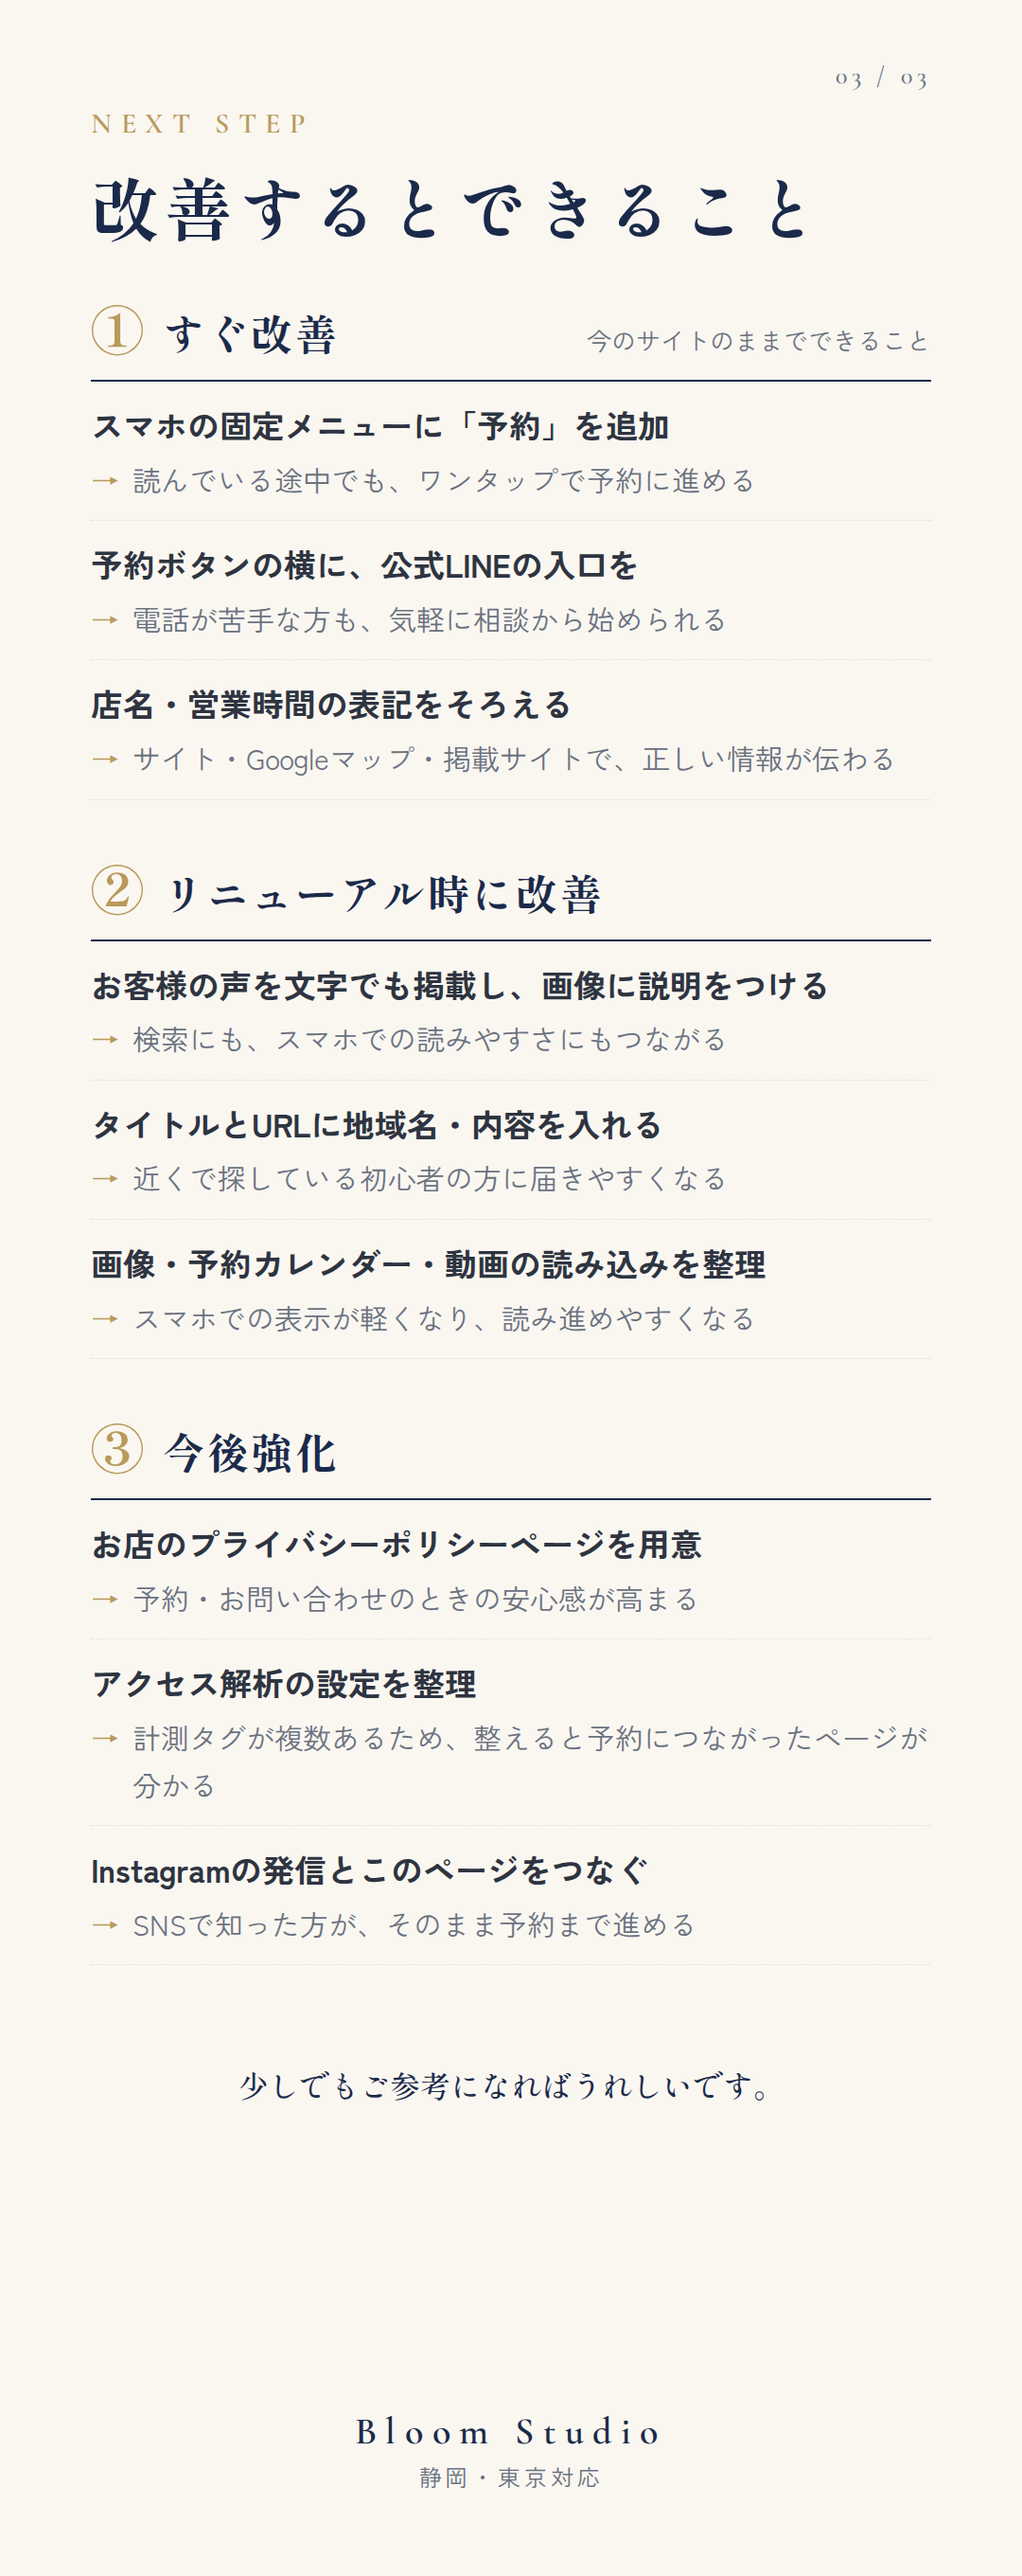
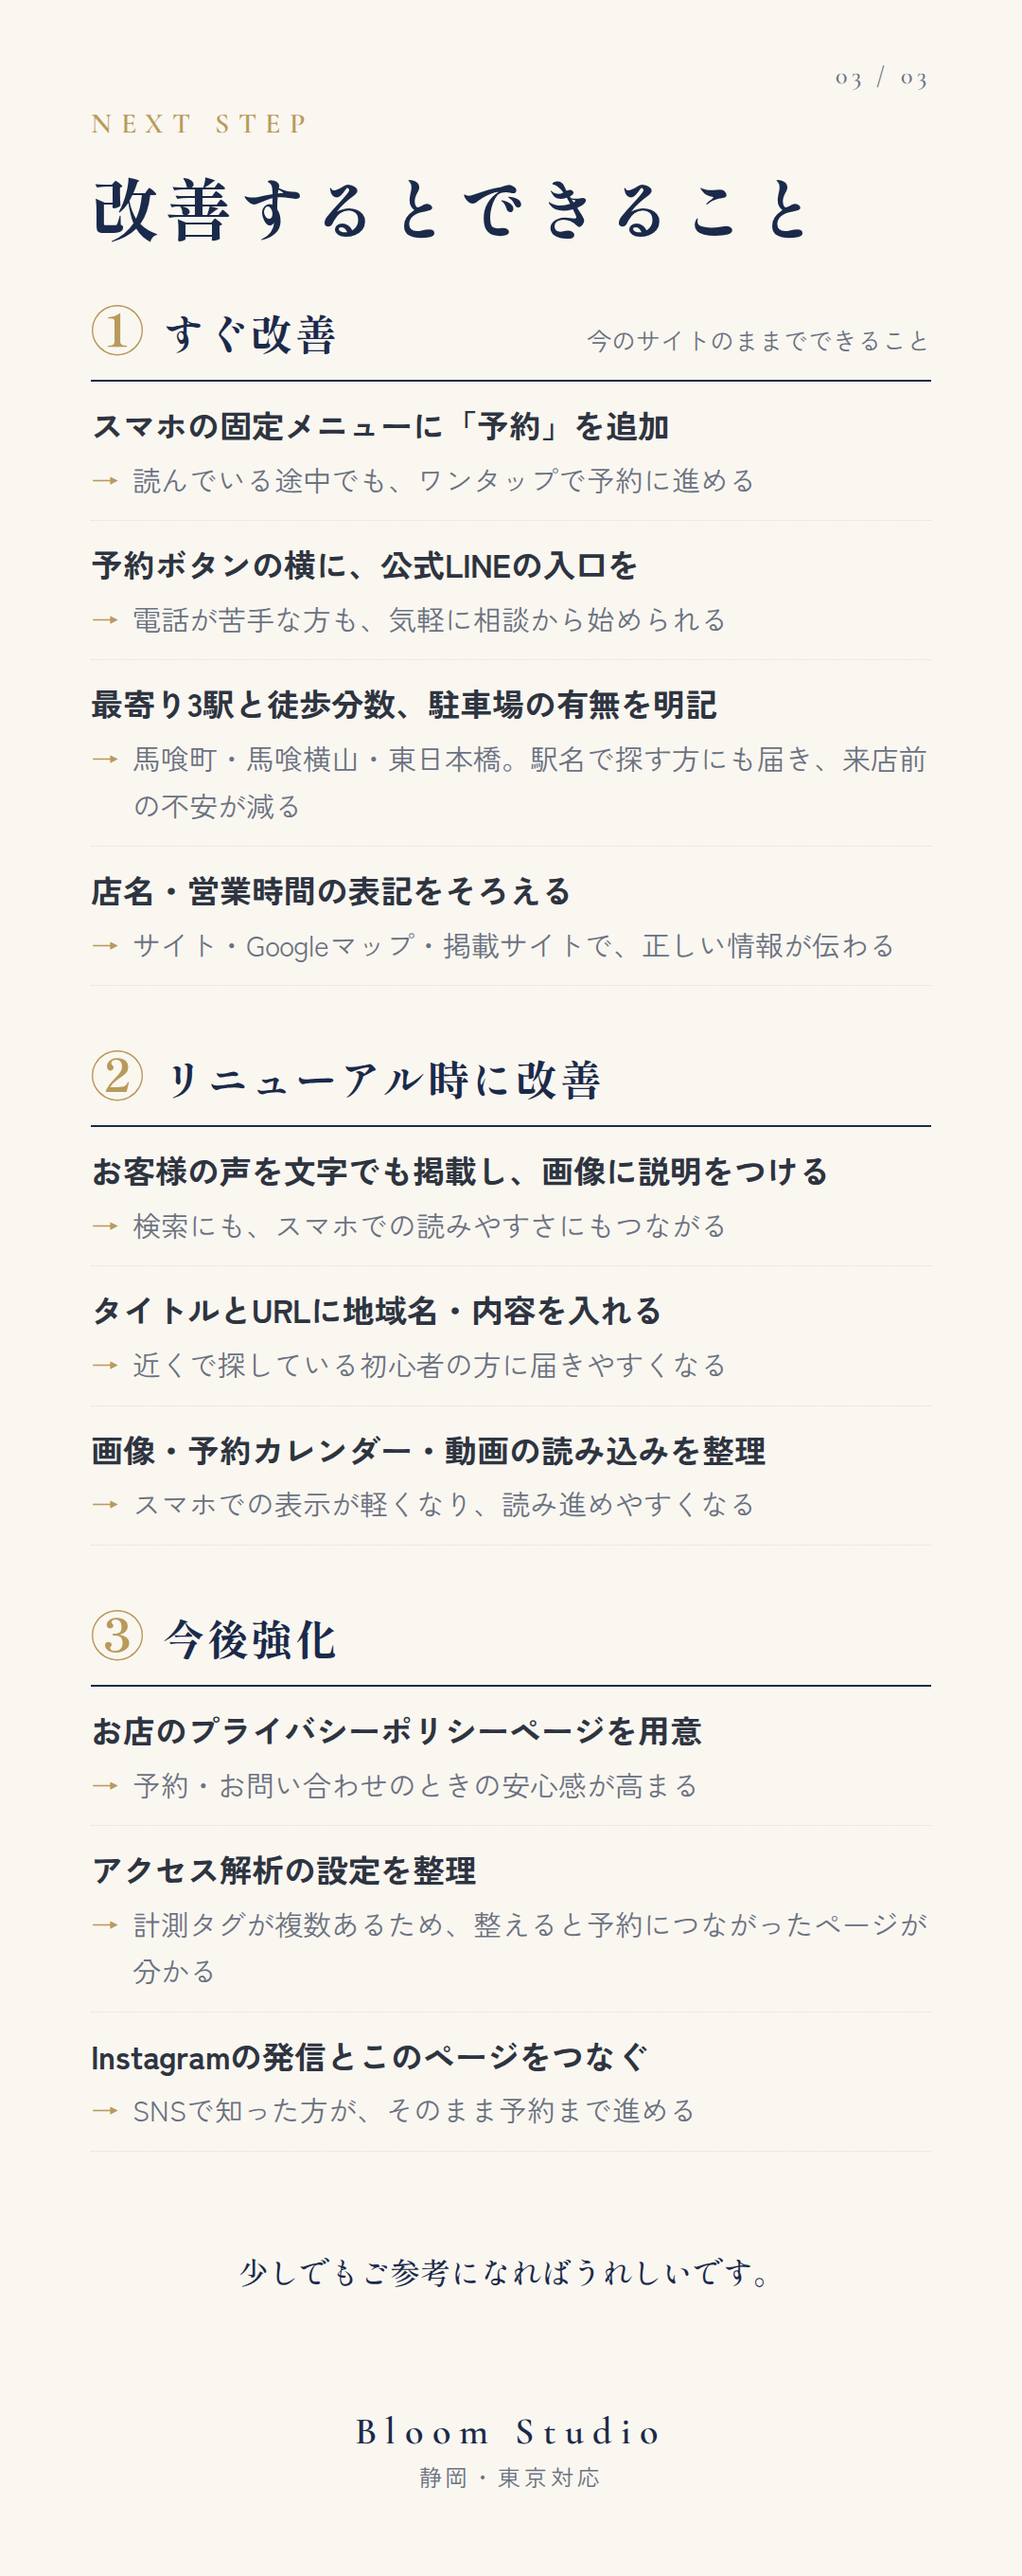
Add access and parking guidance to web check
Claude-Session: https://claude.ai/code/session_01Bsyju6n5ByhgCXtZwvMtoS

diff --git a/web_check/8x8_conditioning_lab.html b/web_check/8x8_conditioning_lab.html
@@ -136,13 +136,13 @@
     <p class="why">電話は気が引ける方も、LINEなら気軽に相談しやすくなります</p>
   </div>
   <div class="issue">
-    <div class="top"><span class="no">03</span><span class="tag">SEO</span><h3>お客様の声が画像のみで掲載</h3></div>
-    <p>声は写真で掲載され、ページ内の画像の説明（alt）もすべて空欄</p>
-    <p class="why">画像の中の文字は検索で読み取られにくく、声が活かされにくくなります</p>
+    <div class="top"><span class="no">03</span><span class="tag">来店</span><h3>最寄り駅・駐車場の案内がない</h3></div>
+    <p>アクセスは住所・地図・営業時間のみ。駅名・徒歩分数・駐車場の記載なし</p>
+    <p class="why">「どの駅で降りて何分？車でも行ける？」が分かると、来店をイメージしやすくなります</p>
   </div>
 
   <div class="memo">
-    <div class="row"><div class="k">SEO</div><div class="v">タイトルに地域名がなく、URLは「/2136-2/」<span>「馬喰町 パーソナルジム 初心者」などで探す方に届きにくくなります</span></div></div>
+    <div class="row"><div class="k">SEO</div><div class="v">タイトルに地域名がなく、お客様の声は画像のみ<span>画像の説明（alt）も空欄のため、検索でページの中身が活かされにくくなります</span></div></div>
     <div class="row"><div class="k">MEO</div><div class="v">店名・営業時間の表記が場所によって異なる<span>店名はサイト内でも複数の表記。営業時間はサイト21:30、一部の掲載サイト23:00</span></div></div>
     <div class="row"><div class="k">信頼性</div><div class="v">「プライバシーポリシー」がGoogleのページにつながっている<span>お店の方針ページがあると、予約時の安心感につながります</span></div></div>
   </div>
@@ -163,6 +163,7 @@
     <ul>
       <li><b>スマホの固定メニューに「予約」を追加</b><span>読んでいる途中でも、ワンタップで予約に進める</span></li>
       <li><b>予約ボタンの横に、公式LINEの入口を</b><span>電話が苦手な方も、気軽に相談から始められる</span></li>
+      <li><b>最寄り3駅と徒歩分数、駐車場の有無を明記</b><span>馬喰町・馬喰横山・東日本橋。駅名で探す方にも届き、来店前の不安が減る</span></li>
       <li><b>店名・営業時間の表記をそろえる</b><span>サイト・Googleマップ・掲載サイトで、正しい情報が伝わる</span></li>
     </ul>
   </div>
